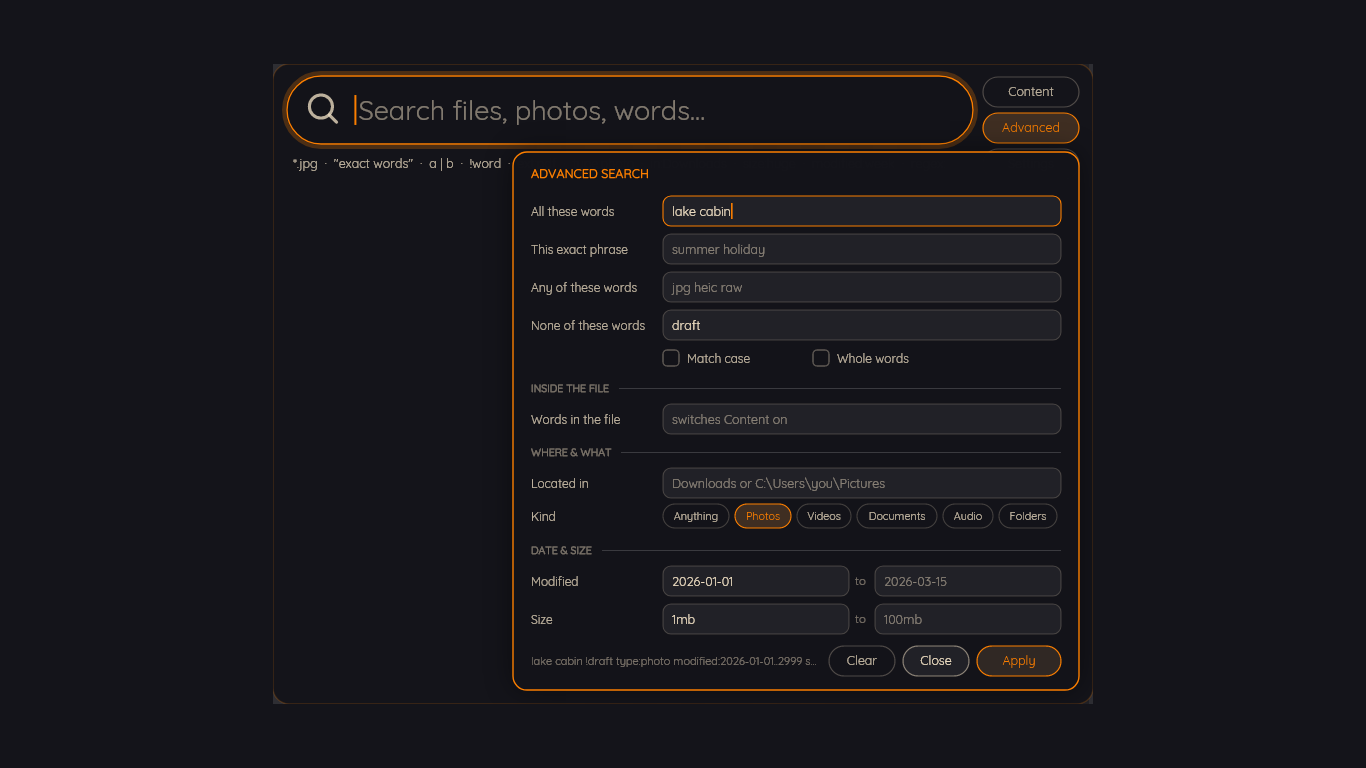
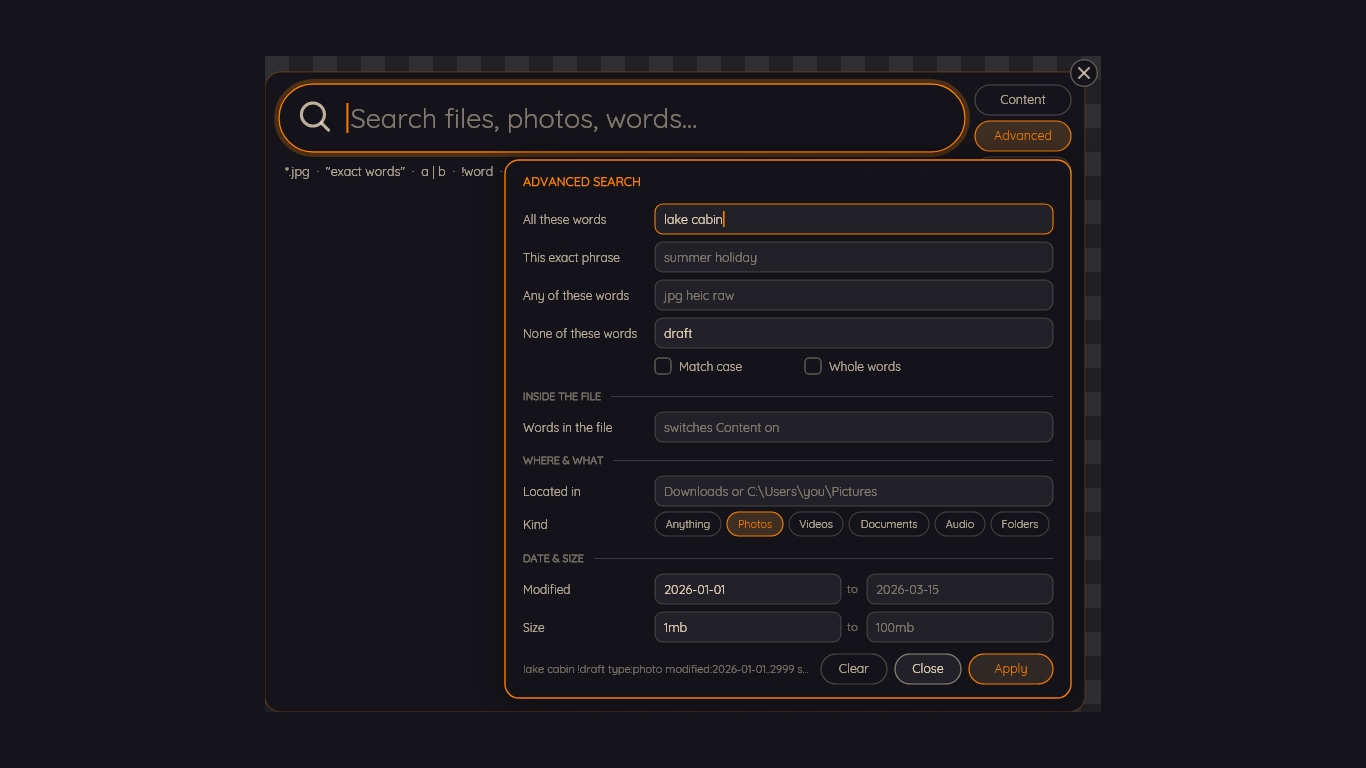
Release 0.5.0: the search field edits like a text box, the card stays open, and it can start reading
- The card's field has a selection: keyboard (Ctrl+A, Shift with arrows, Home, End), mouse (drag,
  Shift+click, double- and triple-click), with typing, Backspace, Delete, cut and copy acting on it.
- The card no longer closes when another window is clicked; a close button on its corner, Esc,
  the hotkey and the capsule close it.
- A fourth pill starts and stops reading inside files, as Settings' button does.
- Screenshots redrawn for the README, the website and the Store listing; README and the PDF guide
  mention the new controls. Version stamped in the winget manifests, the site and docs/store.md.

Changed region(s): [[0.1845, 0.0625, 0.8302, 0.9375], [0.4919, 0.75, 0.5534, 0.7812], [0.1845, 0.9062, 0.2152, 0.9375]]

diff --git a/website/public/changelog/index.html b/website/public/changelog/index.html
@@ -40,7 +40,7 @@
       "name": "Findra changelog - every release and what it changed",
       "description": "What each Findra release added, changed and fixed, newest first. The release notes on GitHub are these same sections.",
       "inLanguage": "en",
-      "dateModified": "2026-09-25",
+      "dateModified": "2026-09-26",
       "isPartOf": {
         "@id": "https://findra-search.netlify.app/#site"
       },
@@ -129,7 +129,7 @@
       <span class="kicker">CHANGELOG</span>
       <h1>Every release, and what it changed for you.</h1>
       <div class="doc-meta">
-        <span class="d">Findra 0.4.3 &middot; last reviewed 2026-09-25</span>
+        <span class="d">Findra 0.5.0 &middot; last reviewed 2026-09-26</span>
         <a class="doc-chip on" href="/changelog.md">Read as Markdown</a>
         <a class="doc-chip" href="https://github.com/blakazulu/findra/blob/main/CHANGELOG.md" rel="noopener">History on GitHub</a>
       </div>
@@ -139,6 +139,22 @@
       <p>All notable changes to Findra are documented here.</p>
 
       <p>The format follows <a href="https://keepachangelog.com/en/1.1.0/">Keep a Changelog 1.1.0</a>, and Findra follows <a href="https://semver.org/spec/v2.0.0/">Semantic Versioning</a>.</p>
+
+      <h2><a href="https://github.com/blakazulu/findra/releases/tag/v0.5.0">0.5.0 - 26 September 2026</a></h2>
+
+      <h3>Added</h3>
+
+      <ul>
+        <li><strong>The search field edits like any other text box.</strong> Ctrl+A selects everything, Shift with the arrows, Home and End selects (Ctrl+Shift by whole words), and the mouse selects by dragging across the text, Shift+click extends a selection, a double-click takes a word and a triple-click takes the lot. Typing, pasting, Backspace and Delete replace what is selected, Ctrl+X cuts it, and Ctrl+C copies it - with nothing selected, Ctrl+C still copies the highlighted result's path. Hebrew and mixed text select correctly.</li>
+        <li><strong>Start and stop reading from the search card.</strong> A fourth pill under Settings says &quot;Start now&quot;, &quot;Starting...&quot; while reading gets going, and &quot;Stop&quot; while Findra is reading inside files. It does what the button in Settings &gt; Content does.</li>
+        <li><strong>A close button on the search card's top-right corner.</strong></li>
+      </ul>
+
+      <h3>Changed</h3>
+
+      <ul>
+        <li><strong>Clicking somewhere else no longer closes the search card</strong>, so a search and its results stay up while you work in another window. Close it with the button on its corner, with Esc (the first press clears the search, the second closes the card), with the shortcut, or by clicking the capsule. The screen behind the card goes back to normal brightness once you click elsewhere.</li>
+      </ul>
 
       <h2><a href="https://github.com/blakazulu/findra/releases/tag/v0.4.3">0.4.3 - 25 September 2026</a></h2>
 

diff --git a/website/public/index.html b/website/public/index.html
@@ -69,7 +69,7 @@
       "keywords": "desktop search, file search, Windows, NTFS, USN journal, local search, offline search, semantic search, photo search by description, speech search, transcript search, open source",
       "operatingSystem": "Windows 10, Windows 11",
       "processorRequirements": "x64 or arm64",
-      "softwareVersion": "0.4.3",
+      "softwareVersion": "0.5.0",
       "license": "https://www.apache.org/licenses/LICENSE-2.0",
       "isAccessibleForFree": true,
       "offers": {
@@ -122,7 +122,7 @@
       "downloadUrl": "https://github.com/blakazulu/findra/releases/latest",
       "datePublished": "2026-09-04",
       "dateModified": "2026-09-21",
-      "releaseNotes": "https://github.com/blakazulu/findra/releases/tag/v0.4.3",
+      "releaseNotes": "https://github.com/blakazulu/findra/releases/tag/v0.5.0",
       "author": {
         "@id": "https://findra-search.netlify.app/#blakazulu"
       },
@@ -286,7 +286,7 @@
 
       <div class="hero-meta">
         <!-- Stamped by build/Make-Pages.mjs from Directory.Build.props and CHANGELOG.md. -->
-        <a class="hero-version" href="/changelog/" data-stamp="version">v0.4.3 - 25 Sep 2026</a>
+        <a class="hero-version" href="/changelog/" data-stamp="version">v0.5.0 - 26 Sep 2026</a>
         <span class="row-break" aria-hidden="true"></span>
         <span>Windows 10 and 11</span>
         <span class="sep">/</span>
@@ -472,7 +472,7 @@
           <b>Download the installer from the
           <a href="https://github.com/blakazulu/findra/releases/latest" rel="noopener">releases page</a></b>, which
           carries one for x64 and one for arm64. That is the whole install of
-          <span data-stamp="release">Findra 0.4.3, released on 25 September 2026</span>.
+          <span data-stamp="release">Findra 0.5.0, released on 26 September 2026</span>.
           Or run
           <code style="font-family:var(--mono);font-size:15px;color:var(--ink-dim)">winget install blakazulu.Findra</code>,
           which installs the same program from the Windows Package Manager catalogue; the catalogue

diff --git a/website/public/about/index.html b/website/public/about/index.html
@@ -129,7 +129,7 @@
       <span class="kicker">ABOUT</span>
       <h1>One person, one repository, no company behind it.</h1>
       <div class="doc-meta">
-        <span class="d">Findra 0.4.3 &middot; last reviewed 2026-09-21</span>
+        <span class="d">Findra 0.5.0 &middot; last reviewed 2026-09-21</span>
         <a class="doc-chip on" href="/about.md">Read as Markdown</a>
         <a class="doc-chip" href="https://github.com/blakazulu/findra/blob/main/website/content/about.md" rel="noopener">History on GitHub</a>
       </div>
@@ -162,7 +162,7 @@
 
       <h2>Where it is</h2>
 
-      <p>Version 0.4.3, released on 25 September 2026. <code>winget install blakazulu.Findra</code> installs it from the Windows Package Manager catalogue, and the installer on the <a href="https://github.com/blakazulu/findra/releases/latest">releases page</a>, which carries one for x64 and one for arm64, is the same program as a download. The releases page has each new release first; the catalogue can take a few days to pick one up. Building from source still works and needs the .NET 10 SDK and nothing else. Neither the installer nor the executables are signed, and nothing in the product, the repository or on this site claims otherwise.</p>
+      <p>Version 0.5.0, released on 26 September 2026. <code>winget install blakazulu.Findra</code> installs it from the Windows Package Manager catalogue, and the installer on the <a href="https://github.com/blakazulu/findra/releases/latest">releases page</a>, which carries one for x64 and one for arm64, is the same program as a download. The releases page has each new release first; the catalogue can take a few days to pick one up. Building from source still works and needs the .NET 10 SDK and nothing else. Neither the installer nor the executables are signed, and nothing in the product, the repository or on this site claims otherwise.</p>
 
       <h2>What it will not do</h2>
 

diff --git a/website/public/search-inside-pdfs/index.html b/website/public/search-inside-pdfs/index.html
@@ -129,7 +129,7 @@
       <span class="kicker">GUIDE</span>
       <h1>Search the words inside your PDFs and documents, with nothing else to install.</h1>
       <div class="doc-meta">
-        <span class="d">Findra 0.4.3 &middot; last reviewed 2026-09-21</span>
+        <span class="d">Findra 0.5.0 &middot; last reviewed 2026-09-21</span>
         <a class="doc-chip on" href="/search-inside-pdfs.md">Read as Markdown</a>
         <a class="doc-chip" href="https://github.com/blakazulu/findra/blob/main/website/content/guides/search-inside-pdfs.md" rel="noopener">History on GitHub</a>
       </div>
@@ -140,7 +140,7 @@
 
       <pre><code>findra --content on</code></pre>
 
-      <p>The same switch is under Content in Findra's settings, beside a Start now button.</p>
+      <p>The same switch is under Content in Findra's settings, beside a Start now button, and the search card has a Start now button of its own.</p>
 
       <h2>What it reads</h2>
 

diff --git a/website/public/install/index.html b/website/public/install/index.html
@@ -134,7 +134,7 @@
           <b>Download the installer from the
           <a href="https://github.com/blakazulu/findra/releases/latest" rel="noopener">releases page</a></b>, which
           carries one for x64 and one for arm64. That is the whole install of
-          <span data-stamp="release">Findra 0.4.3, released on 25 September 2026</span>.
+          <span data-stamp="release">Findra 0.5.0, released on 26 September 2026</span>.
           Or run
           <code style="font-family:var(--mono);font-size:15px;color:var(--ink-dim)">winget install blakazulu.Findra</code>,
           which installs the same program from the Windows Package Manager catalogue; the catalogue

diff --git a/website/public/windows-search-not-finding-files/index.html b/website/public/windows-search-not-finding-files/index.html
@@ -129,7 +129,7 @@
       <span class="kicker">GUIDE</span>
       <h1>Why Windows Search does not find your file, and what does.</h1>
       <div class="doc-meta">
-        <span class="d">Findra 0.4.3 &middot; last reviewed 2026-09-21</span>
+        <span class="d">Findra 0.5.0 &middot; last reviewed 2026-09-21</span>
         <a class="doc-chip on" href="/windows-search-not-finding-files.md">Read as Markdown</a>
         <a class="doc-chip" href="https://github.com/blakazulu/findra/blob/main/website/content/guides/windows-search-not-finding-files.md" rel="noopener">History on GitHub</a>
       </div>

diff --git a/website/public/search-recordings-by-speech/index.html b/website/public/search-recordings-by-speech/index.html
@@ -129,7 +129,7 @@
       <span class="kicker">GUIDE</span>
       <h1>Find the recording by the sentence you remember hearing.</h1>
       <div class="doc-meta">
-        <span class="d">Findra 0.4.3 &middot; last reviewed 2026-09-21</span>
+        <span class="d">Findra 0.5.0 &middot; last reviewed 2026-09-21</span>
         <a class="doc-chip on" href="/search-recordings-by-speech.md">Read as Markdown</a>
         <a class="doc-chip" href="https://github.com/blakazulu/findra/blob/main/website/content/guides/search-recordings-by-speech.md" rel="noopener">History on GitHub</a>
       </div>

diff --git a/website/public/find-photos-by-description/index.html b/website/public/find-photos-by-description/index.html
@@ -129,7 +129,7 @@
       <span class="kicker">GUIDE</span>
       <h1>Type what is in the picture, not what the file is called.</h1>
       <div class="doc-meta">
-        <span class="d">Findra 0.4.3 &middot; last reviewed 2026-09-21</span>
+        <span class="d">Findra 0.5.0 &middot; last reviewed 2026-09-21</span>
         <a class="doc-chip on" href="/find-photos-by-description.md">Read as Markdown</a>
         <a class="doc-chip" href="https://github.com/blakazulu/findra/blob/main/website/content/guides/find-photos-by-description.md" rel="noopener">History on GitHub</a>
       </div>

diff --git a/website/public/code-signing/index.html b/website/public/code-signing/index.html
@@ -129,7 +129,7 @@
       <span class="kicker">SIGNING</span>
       <h1>Code signing policy: who writes Findra, who approves a release, and who signs it.</h1>
       <div class="doc-meta">
-        <span class="d">Findra 0.4.3 &middot; last reviewed 2026-09-05</span>
+        <span class="d">Findra 0.5.0 &middot; last reviewed 2026-09-05</span>
         <a class="doc-chip on" href="/code-signing.md">Read as Markdown</a>
         <a class="doc-chip" href="https://github.com/blakazulu/findra/blob/main/docs/code-signing-policy.md" rel="noopener">History on GitHub</a>
       </div>

diff --git a/website/public/contact/index.html b/website/public/contact/index.html
@@ -129,7 +129,7 @@
       <span class="kicker">CONTACT</span>
       <h1>Four ways in, and none of them is a form.</h1>
       <div class="doc-meta">
-        <span class="d">Findra 0.4.3 &middot; last reviewed 2026-09-05</span>
+        <span class="d">Findra 0.5.0 &middot; last reviewed 2026-09-05</span>
         <a class="doc-chip on" href="/contact.md">Read as Markdown</a>
         <a class="doc-chip" href="https://github.com/blakazulu/findra/blob/main/website/content/contact.md" rel="noopener">History on GitHub</a>
       </div>

diff --git a/website/public/privacy/index.html b/website/public/privacy/index.html
@@ -129,7 +129,7 @@
       <span class="kicker">PRIVACY</span>
       <h1>Nothing leaves your machine, except one request.</h1>
       <div class="doc-meta">
-        <span class="d">Findra 0.4.3 &middot; last reviewed 2026-09-05</span>
+        <span class="d">Findra 0.5.0 &middot; last reviewed 2026-09-05</span>
         <a class="doc-chip on" href="/privacy.md">Read as Markdown</a>
         <a class="doc-chip" href="https://github.com/blakazulu/findra/blob/main/PRIVACY.md" rel="noopener">History on GitHub</a>
       </div>

diff --git a/website/public/changelog.md b/website/public/changelog.md
@@ -5,6 +5,28 @@ All notable changes to Findra are documented here.
 The format follows [Keep a Changelog 1.1.0](https://keepachangelog.com/en/1.1.0/),
 and Findra follows [Semantic Versioning](https://semver.org/spec/v2.0.0/).
 
+## [0.5.0 - 26 September 2026](https://github.com/blakazulu/findra/releases/tag/v0.5.0)
+
+### Added
+
+- **The search field edits like any other text box.** Ctrl+A selects everything, Shift with the
+  arrows, Home and End selects (Ctrl+Shift by whole words), and the mouse selects by dragging
+  across the text, Shift+click extends a selection, a double-click takes a word and a triple-click
+  takes the lot. Typing, pasting, Backspace and Delete replace what is selected, Ctrl+X cuts it,
+  and Ctrl+C copies it - with nothing selected, Ctrl+C still copies the highlighted result's path.
+  Hebrew and mixed text select correctly.
+- **Start and stop reading from the search card.** A fourth pill under Settings says "Start now",
+  "Starting..." while reading gets going, and "Stop" while Findra is reading inside files. It does
+  what the button in Settings > Content does.
+- **A close button on the search card's top-right corner.**
+
+### Changed
+
+- **Clicking somewhere else no longer closes the search card**, so a search and its results stay
+  up while you work in another window. Close it with the button on its corner, with Esc (the first
+  press clears the search, the second closes the card), with the shortcut, or by clicking the
+  capsule. The screen behind the card goes back to normal brightness once you click elsewhere.
+
 ## [0.4.3 - 25 September 2026](https://github.com/blakazulu/findra/releases/tag/v0.4.3)
 
 ### Fixed
